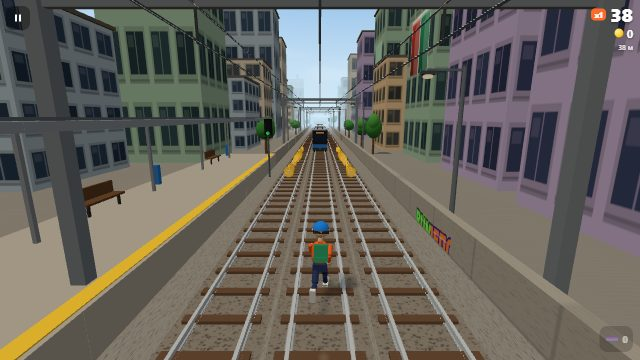
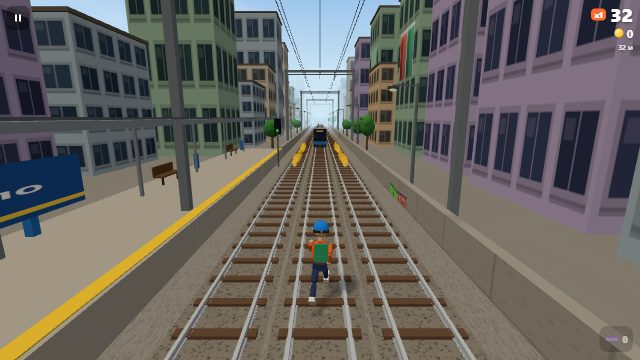
Хаб 1.1.2: «Бег по рельсам» 2.0.1 (RailRunner 9ea7a53, тег v2.0.1: пандусы видны, провода и свод туннеля выше бегуна и камеры, найденный ключ сразу в запасе, «Турист») - node tools/sync-railrunner.js, картинка карточки заново; версия 1.1.2 (package.json, README), журнал 1.1.2 - 2026-10-17 (Drift 1.2

diff --git a/web/rail-runner/js/scenery.js b/web/rail-runner/js/scenery.js
@@ -11,6 +11,16 @@
   const K = R.C;
   const SEG = 12;
   const WALL_X = K.LANE_W * 1.5 + 1.15;
+  // The contact wire hangs higher than anything the player reaches: a super jump from a train
+  // roof (feet at 6.6 m, head at 8.3 m), the jetpack (feet at 7.2 m, head at 8.9 m) and the
+  // camera that follows them (up to 9.5 m). In 2.0.0 the wire hung at 5.85 m: on a roof the
+  // camera sat 0.15 m above it and the black wire covered the runner, a jump went through it.
+  const CATENARY_WIRE_Y = 10.2;
+  const CATENARY_LOW = CATENARY_WIRE_Y - 0.05;   // the lowest part over the tracks (droppers)
+  // The tunnel vault (its ribs) is higher still: the wires run under it. In 2.0.0 the ribs were
+  // at 7.3 m - a super jump from a roof put the camera inside a rib (the screen went brown) and
+  // on a jetpack the camera flew above the tunnel roof, the runner was not seen at all.
+  const TUNNEL_LOW = CATENARY_WIRE_Y + 0.7;
 
   // ---------- looks: light and colours of every district (and the second lap's morning) ----------
   const LOOKS = {
@@ -251,14 +261,16 @@
       G.box(0.5, 0.12, 0.26, 0x4a5056, [-1.25, 6.0, 0]),
     ]);
     Gm.glow = new THREE.SphereGeometry(0.16, 8, 6);
-    // a catenary gantry across the three tracks
+    // a catenary gantry across the three tracks: everything over the tracks is higher than
+    // CATENARY_LOW (see there)
+    const C0 = CATENARY_WIRE_Y;
     const gant = [
-      G.box(0.32, 7.2, 0.32, 0x7d858d, [-5.0, 3.6, 0]), G.box(0.32, 7.2, 0.32, 0x7d858d, [5.0, 3.6, 0]),
-      G.box(10.6, 0.3, 0.3, 0x7d858d, [0, 6.9, 0]), G.box(10.6, 0.12, 0.12, 0x7d858d, [0, 6.45, 0]),
+      G.box(0.32, C0 + 1.35, 0.32, 0x7d858d, [-5.0, (C0 + 1.35) / 2, 0]), G.box(0.32, C0 + 1.35, 0.32, 0x7d858d, [5.0, (C0 + 1.35) / 2, 0]),
+      G.box(10.6, 0.3, 0.3, 0x7d858d, [0, C0 + 1.05, 0]), G.box(10.6, 0.12, 0.12, 0x7d858d, [0, C0 + 0.6, 0]),
     ];
     for (const lx of [-K.LANE_W, 0, K.LANE_W]) {
-      gant.push(G.box(0.04, 0.8, 0.04, 0x444444, [lx, 6.2, 0]));
-      gant.push(G.cyl(0.07, 0.07, 0.25, 6, 0x9b5a3a, [lx, 6.6, 0]));
+      gant.push(G.box(0.04, 0.8, 0.04, 0x444444, [lx, C0 + 0.35, 0]));
+      gant.push(G.cyl(0.07, 0.07, 0.25, 6, 0x9b5a3a, [lx, C0 + 0.75, 0]));
     }
     Gm.gantry = G.merge(gant);
     // a signal: pole, head with three lights facing the player (lights separate)
@@ -281,18 +293,19 @@
     ];
     Gm.platform = G.merge(plat);
     // tunnel: walls, ceiling and a rib, one segment
+    const TV = TUNNEL_LOW;          // the ribs' bottom; the ceiling 0.5 m above it
     Gm.tunnel = G.merge([
-      G.box(1.2, 8, SEG, 0x8a8478, [-6.0, 4, 0]), G.box(1.2, 8, SEG, 0x8a8478, [6.0, 4, 0]),
-      G.box(13.2, 1.2, SEG, 0x7a746a, [0, 8.4, 0]),
-      G.box(0.6, 7.6, 0.8, 0x6a645a, [-5.3, 3.8, 0]), G.box(0.6, 7.6, 0.8, 0x6a645a, [5.3, 3.8, 0]), G.box(11.2, 0.6, 0.8, 0x6a645a, [0, 7.6, 0]),
+      G.box(1.2, TV + 1.7, SEG, 0x8a8478, [-6.0, (TV + 1.7) / 2, 0]), G.box(1.2, TV + 1.7, SEG, 0x8a8478, [6.0, (TV + 1.7) / 2, 0]),
+      G.box(13.2, 1.2, SEG, 0x7a746a, [0, TV + 1.1, 0]),
+      G.box(0.6, TV + 0.6, 0.8, 0x6a645a, [-5.3, (TV + 0.6) / 2, 0]), G.box(0.6, TV + 0.6, 0.8, 0x6a645a, [5.3, (TV + 0.6) / 2, 0]), G.box(11.2, 0.6, 0.8, 0x6a645a, [0, TV + 0.3, 0]),
       G.box(0.15, 0.25, SEG, 0x3a3a3a, [-5.25, 2.2, 0]), G.box(0.15, 0.25, SEG, 0x3a3a3a, [5.25, 2.2, 0]),
       G.box(0.1, 0.12, SEG, 0x2a2a2a, [-5.25, 2.6, 0]), G.box(0.1, 0.12, SEG, 0x2a2a2a, [5.25, 2.6, 0]),
     ]);
     // a portal: the hill face with an opening for the tracks
     Gm.portal = G.merge([
       G.box(40, 30, 6, 0x6f6a5f, [-25.6, 15, 3]), G.box(40, 30, 6, 0x6f6a5f, [25.6, 15, 3]),
-      G.box(11.2, 21, 6, 0x6f6a5f, [0, 19.5, 3]),
-      G.box(12.4, 1.2, 0.8, 0x9a948a, [0, 9.0, -0.2]), G.box(1.2, 9.6, 0.8, 0x9a948a, [-6.2, 4.8, -0.2]), G.box(1.2, 9.6, 0.8, 0x9a948a, [6.2, 4.8, -0.2]),
+      G.box(11.2, 30 - (TV + 0.6), 6, 0x6f6a5f, [0, (30 + TV + 0.6) / 2, 3]),
+      G.box(12.4, 1.2, 0.8, 0x9a948a, [0, TV + 0.6, -0.2]), G.box(1.2, TV + 1.2, 0.8, 0x9a948a, [-6.2, (TV + 1.2) / 2, -0.2]), G.box(1.2, TV + 1.2, 0.8, 0x9a948a, [6.2, (TV + 1.2) / 2, -0.2]),
       G.box(90, 12, 30, 0x4f6b3a, [0, 32, 18], null, {}), G.box(70, 10, 30, 0x5a7a40, [0, 40, 30]),
     ]);
     // bridge: truss on one side of a segment and the deck
@@ -399,10 +412,14 @@
     mats.rail = railMesh.material;
     const wires = [];
     for (const lx of [-K.LANE_W, 0, K.LANE_W]) {
-      wires.push(G.box(0.03, 0.03, LEN, 0x222222, [lx, 5.85, 0]));
-      wires.push(G.box(0.025, 0.025, LEN, 0x222222, [lx, 6.45, 0]));
+      wires.push(G.box(0.03, 0.03, LEN, 0x222222, [lx, CATENARY_WIRE_Y, 0]));
+      wires.push(G.box(0.025, 0.025, LEN, 0x222222, [lx, CATENARY_WIRE_Y + 0.6, 0]));
     }
     const wireMesh = new THREE.Mesh(G.merge(wires), new THREE.MeshBasicMaterial({ vertexColors: true }));
+    wireMesh.name = 'catenary-wires';
+    P.gantry.mesh.name = 'catenary-gantry';
+    P.tunnel.mesh.name = 'tunnel-vault';
+    P.portal.mesh.name = 'tunnel-portal';
     track.add(wireMesh);
     const SLEEPER_STEP = 1.1, SLEEPERS = Math.ceil((opts.ahead + opts.behind + 10) / SLEEPER_STEP);
     const sleepers = new THREE.InstancedMesh(new THREE.BoxGeometry(1.75, 0.08, 0.24), mats.sleeper, SLEEPERS * 3);
@@ -607,5 +624,5 @@
     return { update, follow, setLook, setDetail, setLang, setShowcase, smoke, pools: P, mats, track, water, skyline };
   }
 
-  root.RRScenery = { create, lookAt, LOOKS, SEG };
+  root.RRScenery = { create, lookAt, LOOKS, SEG, CATENARY_LOW };
 })(typeof self !== 'undefined' ? self : this);

diff --git a/web/rail-runner/js/app.js b/web/rail-runner/js/app.js
@@ -8,7 +8,7 @@
 // ?preserve=1 - keep the picture for screenshots.
 (function () {
   'use strict';
-  const VERSION = '2.0.0';
+  const VERSION = '2.0.1';
   const R = window.RRCore, M = window.RRMeta, I = window.RRI18n, A = window.RRAudio;
   const DT = R.C.DT;
   const STORE = 'railrunner:save';
@@ -228,7 +228,7 @@
   function renderOverNews() {
     if (!lastOver) return;
     const { rec, mis, daily, ach } = lastOver;
-    $('o-best').textContent = I.t('record', { n: save.best }) + (rec.rank ? ' · ' + I.t('rankText', { n: rec.rank }) : '');
+    $('o-best').textContent = I.t('record', { n: fmt(save.best) }) + (rec.rank ? ' · ' + I.t('rankText', { n: rec.rank }) : '');
     const news = [];
     for (const id of mis.completed) news.push('✓ ' + missionText(id, save.missions.level - (mis.levelUp ? 1 : 0)) + ' · ' + I.t('missionReward', { n: M.missionReward(save.missions.level - (mis.levelUp ? 1 : 0)) }));
     if (mis.levelUp) news.push('★ ' + I.t('levelUp', { n: save.missions.level }));
@@ -333,7 +333,14 @@
       if (e === 'bump') toast(I.t('bump'));
       else if (e === 'board-break') { toast(I.t('boardBroke')); flash(); }
       else if (e === 'board-on') toast(I.t('boardOn'));
-      else if (e === 'key') toast(I.t('keyFound'));
+      else if (e === 'key') {
+        // a found key goes into the stock at once: it can pay for a continue in this very run
+        // (run.keys - found and not yet put away, applyResult adds only those)
+        save.keys = Math.min(99999, save.keys + 1);
+        run.keys--;
+        persist();
+        toast(I.t('keyFound'));
+      }
       else if (e === 'crash') { state = 'dying'; deadT = 0; A.music(false); A.jet(false); flash(true); }
       else if (e.startsWith('power:')) { toast(I.t('p_' + e.slice(6))); flash(); if (e === 'power:jetpack') A.jet(true); }
       else if (e === 'power-end:jetpack') A.jet(false);
@@ -992,7 +999,7 @@
     get manual() { return MANUAL; },
     get tutorial() { return tut; },
     get lastOver() { return lastOver; },
-    view: { info: () => view.info(), get theme() { return view.theme; }, get quality() { return view.quality; }, get look() { return view.look; }, get scene() { return view.scene; } },
+    view: { info: () => view.info(), get theme() { return view.theme; }, get quality() { return view.quality; }, get look() { return view.look; }, get scene() { return view.scene; }, get camera() { return view.camera; } },
     // move the simulation by whole steps (works in ?manual=1 and normally);
     // { auto: true } - the autopilot plays the run (tests and README frames)
     advance(seconds, opts = {}) {

diff --git a/web/rail-runner/js/i18n.js b/web/rail-runner/js/i18n.js
@@ -142,7 +142,7 @@
       qHigh: 'Высокое',
       qMedium: 'Среднее',
       qLow: 'Низкое',
-      qualityHelp: '«Авто» само снижает качество, если кадры идут медленнее 60 в секунду.',
+      qualityHelp: '«Авто» само снижает качество, если игра идёт медленнее 45 кадров в секунду.',
       shadows: 'Тени',
       particles: 'Частицы',
       pHigh: 'Много',
@@ -202,7 +202,7 @@
       a_hops10: 'Акробат', a_hops10_d: 'Перескочить с крыши на крышу 10 раз',
       a_near25: 'На волосок', a_near25_d: 'Уйти от поезда в последний миг 25 раз',
       a_jets10: 'Пилот', a_jets10_d: 'Полетать на ранце 10 раз',
-      a_tour: 'Путешественник', a_tour_d: 'Пробежать все пять районов за забег',
+      a_tour: 'Турист', a_tour_d: 'Пробежать все пять районов за забег',
       a_mult5: 'Множитель x5', a_mult5_d: 'Довести множитель до x5',
       a_mult10: 'Множитель x10', a_mult10_d: 'Довести множитель до x10',
       a_crew3: 'Команда', a_crew3_d: 'Открыть трёх персонажей',
@@ -356,7 +356,7 @@
       qHigh: 'High',
       qMedium: 'Medium',
       qLow: 'Low',
-      qualityHelp: '"Auto" lowers the quality by itself when the game runs slower than 60 frames a second.',
+      qualityHelp: '"Auto" lowers the quality by itself when the game runs slower than 45 frames a second.',
       shadows: 'Shadows',
       particles: 'Particles',
       pHigh: 'Many',
@@ -414,7 +414,7 @@
       a_hops10: 'Acrobat', a_hops10_d: 'Hop from roof to roof 10 times',
       a_near25: 'Close calls', a_near25_d: 'Dodge a train at the last moment 25 times',
       a_jets10: 'Pilot', a_jets10_d: 'Fly the jetpack 10 times',
-      a_tour: 'Traveller', a_tour_d: 'Run through all five districts in a run',
+      a_tour: 'Tourist', a_tour_d: 'Run through all five districts in a run',
       a_mult5: 'Multiplier x5', a_mult5_d: 'Raise the multiplier to x5',
       a_mult10: 'Multiplier x10', a_mult10_d: 'Raise the multiplier to x10',
       a_crew3: 'Crew', a_crew3_d: 'Unlock three characters',

diff --git a/web/rail-runner/js/gfx.js b/web/rail-runner/js/gfx.js
@@ -72,16 +72,19 @@
     return part(new THREE.CylinderGeometry(rt, rb, h, seg), color, Object.assign({ p, r }, extra));
   }
   const sphere = (rad, color, p, s, ws = 10, hs = 8) => part(new THREE.SphereGeometry(rad, ws, hs), color, { p, s });
-  // a wedge from height 0 at z=0 to height H at z=L, width W (centred on x)
+  // a wedge from height 0 at z=0 to height H at z=L, width W (centred on x).
+  // Every triangle is wound counter-clockwise seen from outside: three.js draws only the front
+  // side, and in 2.0.0 the faces were wound inside out - the slope was invisible from above
+  // and the ramp looked transparent (only its yellow edges showed).
   function wedge(W, H, L, color) {
     const hw = W / 2;
     const v = [
-      -hw, 0, 0, hw, 0, 0, hw, H, L, -hw, 0, 0, hw, H, L, -hw, H, L,
-      -hw, 0, 0, -hw, H, L, -hw, 0, L,
-      hw, 0, 0, hw, 0, L, hw, H, L,
-      -hw, 0, L, -hw, H, L, hw, H, L, -hw, 0, L, hw, H, L, hw, 0, L,
+      -hw, 0, 0, hw, H, L, hw, 0, 0, -hw, 0, 0, -hw, H, L, hw, H, L,
+      -hw, 0, 0, -hw, 0, L, -hw, H, L,
+      hw, 0, 0, hw, H, L, hw, 0, L,
+      -hw, 0, L, hw, H, L, -hw, H, L, -hw, 0, L, hw, 0, L, hw, H, L,
     ];
-    const uv = [0, 0, 1, 0, 1, 1, 0, 0, 1, 1, 0, 1, 0, 0, 1, 1, 1, 0, 0, 0, 1, 0, 1, 1, 0, 0, 0, 1, 1, 1, 0, 0, 1, 1, 1, 0];
+    const uv = [0, 0, 1, 1, 1, 0, 0, 0, 0, 1, 1, 1, 0, 0, 1, 0, 1, 1, 0, 0, 1, 1, 1, 0, 0, 0, 1, 1, 0, 1, 0, 0, 1, 0, 1, 1];
     const g = new THREE.BufferGeometry();
     g.setAttribute('position', new THREE.Float32BufferAttribute(v, 3));
     g.setAttribute('uv', new THREE.Float32BufferAttribute(uv, 2));

diff --git a/web/rail-runner/css/style.css b/web/rail-runner/css/style.css
@@ -202,8 +202,9 @@ h3 { margin: 8px 0 0; font-size: 17px; }
 .ach { background: var(--card); border-radius: 12px; padding: 8px; display: grid; grid-template-columns: 48px 1fr; gap: 8px; align-items: center; }
 .ach svg { width: 48px; height: 48px; }
 .ach.locked svg { filter: grayscale(1); opacity: 0.35; }
-.ach .name { font-weight: 700; font-size: 14px; }
-.ach .desc { font-size: 12px; color: var(--muted); line-height: 1.3; }
+.ach > div { min-width: 0; }
+.ach .name { font-weight: 700; font-size: 14px; overflow-wrap: break-word; }
+.ach .desc { font-size: 12px; color: var(--muted); line-height: 1.3; overflow-wrap: break-word; }
 
 /* records */
 .runs { display: flex; flex-direction: column; gap: 4px; font-variant-numeric: tabular-nums; }

diff --git a/README.ru.md b/README.ru.md
@@ -113,13 +113,13 @@ npm start                 # запустить приложение
 npm run dist              # собрать установщик и portable в dist/
 ```
 
-Сборка для Windows x64: `dist/Hub-1.1.1-Setup.exe` (NSIS, для одного
-пользователя, без прав администратора, на русском) и `dist/Hub-1.1.1-Portable.exe`,
+Сборка для Windows x64: `dist/Hub-1.1.2-Setup.exe` (NSIS, для одного
+пользователя, без прав администратора, на русском) и `dist/Hub-1.1.2-Portable.exe`,
 около 160 МБ. В сборку попадают только `app/` и папки игр, программ и демо.
 
 ```
-npm test                  # страницы web/ в Chromium (1185 проверок)
-npm run test:unit         # законы модулей приложения и значка (51)
+npm test                  # страницы web/ в Chromium (1193 проверки)
+npm run test:unit         # законы модулей приложения и значка (63)
 npm run test:app          # настоящее приложение через Playwright (91, окна за экраном)
 pip install -r requirements-py.txt
 python -m pytest tests/py # программы py/ (183)
@@ -180,13 +180,13 @@ python -m pytest tests/py # программы py/ (183)
 |---|---|---|---|
 | `tetris` | «Блоки»: падающие фигуры по правилам серии, с запасом и T-вращениями | 12 | 9 / 9 / 4 |
 | `sudoku` | Судоку с решателем, подсказками, паузой и рекордами по уровням | 11 | 8 / 9 / 5 |
-| `horizon_drift_offline` | Horizon Drift: 3D-гонки и дрифт, карьера, 8 машин и 8 трасс, свободная езда по 4 картам, повреждения; соперников ведёт нейросеть AiRacer (видит только то, что водитель), «Новая трасса» по коду - генератор с проверкой ботом и нейросетью | 117 + 9 в node | 8 / 7 / 7 |
+| `horizon_drift_offline` | Horizon Drift: 3D-гонки и дрифт, карьера, 8 машин и 8 трасс, свободная езда по 4 картам, повреждения; соперников ведёт нейросеть AiRacer (видит только то, что водитель), «Новая трасса» по коду - генератор с проверкой ботом и нейросетью | 118 + 11 в node | 8 / 7 / 7 |
 | `space_shooter` | Космический стрелок: волны врагов и астероидов, бонусы, рекорд | 12 | 8 / 7 / 5 |
 | `mario` | «Прыг-скок»: платформер на два уровня со своим героем | 13 | 7 / 8 / 5 |
 | `jungle-strike` | «Огненные джунгли»: аркада-стрелялка с боссом | 11 | 7 / 7 / 6 |
 | `minecraft_clone_3d_1` | «Кубический мир»: песочница из кубов, постройки сохраняются | 11 | 7 / 7 / 6 |
 | `dino` | «Дино-бег»: бег с прыжками через кактусы и птиц | 11 | 6 / 8 / 3 |
-| `rail-runner` | «Бег по рельсам»: бег по трём путям в 3D от поездов через пять районов - 6 персонажей, магазин, задания, реактивный ранец и обучение. Свой репозиторий [RailRunner](https://github.com/ALEXalesha/RailRunner), здесь копия его `web/`, версия <!--rail-ver-->2.0.0<!--/rail-ver-->, обновляется `node tools/sync-railrunner.js [папка]` (или `RAILRUNNER_DIR`) | в RailRunner | пока без разбора |
+| `rail-runner` | «Бег по рельсам»: бег по трём путям в 3D от поездов через пять районов - 6 персонажей, магазин, задания, реактивный ранец и обучение. Свой репозиторий [RailRunner](https://github.com/ALEXalesha/RailRunner), здесь копия его `web/`, версия <!--rail-ver-->2.0.1<!--/rail-ver-->, обновляется `node tools/sync-railrunner.js [папка]` (или `RAILRUNNER_DIR`) | в RailRunner | пока без разбора |
 | `flappy-wings` | «Летучая птичка»: пролети между колоннами, один файл; фан-игра, не связана с правообладателями известных игр жанра | 25 | пока без разбора |
 | `fps_1` | «Операция: Периметр»: тактический шутер от первого лица, раунды против ботов | 10 | 6 / 7 / 4 |
 | `roblox-mini` | «Блоксити»: город площадок - выбирай место и наряжай своего героя | 10 | 5 / 7 / 4 |

diff --git a/README.md b/README.md
@@ -114,13 +114,13 @@ npm start                 # run the app
 npm run dist              # build the installer and the portable exe into dist/
 ```
 
-The Windows x64 build gives `dist/Hub-1.1.1-Setup.exe` (NSIS, per-user, no admin
-rights, Russian) and `dist/Hub-1.1.1-Portable.exe`. Only `app/` and the
+The Windows x64 build gives `dist/Hub-1.1.2-Setup.exe` (NSIS, per-user, no admin
+rights, Russian) and `dist/Hub-1.1.2-Portable.exe`. Only `app/` and the
 folders of the games, programs and demos go into the build (about 160 MB each).
 
 ```
-npm test                  # web/ pages in Chromium (1185 checks)
-npm run test:unit         # laws of the app modules and the icon (51)
+npm test                  # web/ pages in Chromium (1193 checks)
+npm run test:unit         # laws of the app modules and the icon (63)
 npm run test:app          # the real app through Playwright (91, windows off-screen)
 pip install -r requirements-py.txt
 python -m pytest tests/py # py/ programs (183)
@@ -180,13 +180,13 @@ and [docs/audit/apps.md](docs/audit/apps.md). Scores are after the fixes.
 |---|---|---|---|
 | `tetris` | Blocks: falling pieces by the classic rules, with hold and T-spins | 12 | 9 / 9 / 4 |
 | `sudoku` | Sudoku with a solver, hints, pause and records per level | 11 | 8 / 9 / 5 |
-| `horizon_drift_offline` | Horizon Drift: 3D racing and drifting, career, 8 cars and 8 tracks, free roam on 4 maps, car damage; rivals are driven by the AiRacer neural network (it sees only what a driver sees), "New track" from a code - a generator checked by the bot and the network | 117 + 9 in node | 8 / 7 / 7 |
+| `horizon_drift_offline` | Horizon Drift: 3D racing and drifting, career, 8 cars and 8 tracks, free roam on 4 maps, car damage; rivals are driven by the AiRacer neural network (it sees only what a driver sees), "New track" from a code - a generator checked by the bot and the network | 118 + 11 in node | 8 / 7 / 7 |
 | `space_shooter` | Space Shooter: waves of enemies and asteroids, power-ups, record | 12 | 8 / 7 / 5 |
 | `mario` | Hop-Skip: a two-level platformer with its own hero | 13 | 7 / 8 / 5 |
 | `jungle-strike` | Fire Jungle: a run-and-gun arcade with a boss | 11 | 7 / 7 / 6 |
 | `minecraft_clone_3d_1` | Cube World: a voxel sandbox, builds are saved | 11 | 7 / 7 / 6 |
 | `dino` | Dino Run: jump over cacti and duck under birds | 11 | 6 / 8 / 3 |
-| `rail-runner` | RailRunner («Бег по рельсам»): run along three tracks in 3D away from trains through five districts - 6 characters, a shop, missions, a jetpack and a tutorial. Its own repository [RailRunner](https://github.com/ALEXalesha/RailRunner); this is a copy of its `web/`, version <!--rail-ver-->2.0.0<!--/rail-ver-->, refreshed with `node tools/sync-railrunner.js [folder]` (or `RAILRUNNER_DIR`) | in RailRunner | not reviewed yet |
+| `rail-runner` | RailRunner («Бег по рельсам»): run along three tracks in 3D away from trains through five districts - 6 characters, a shop, missions, a jetpack and a tutorial. Its own repository [RailRunner](https://github.com/ALEXalesha/RailRunner); this is a copy of its `web/`, version <!--rail-ver-->2.0.1<!--/rail-ver-->, refreshed with `node tools/sync-railrunner.js [folder]` (or `RAILRUNNER_DIR`) | in RailRunner | not reviewed yet |
 | `flappy-wings` | Flappy Wings: fly between columns, one file, a fan game not affiliated with the rights holders of the genre's known games | 25 | not reviewed yet |
 | `fps_1` | Operation: Perimeter: a first-person tactical shooter, rounds against bots | 10 | 6 / 7 / 4 |
 | `roblox-mini` | Blockcity: a city of places - pick one and dress up your hero | 10 | 5 / 7 / 4 |

diff --git a/docs/release-notes/v1.1.2.md b/docs/release-notes/v1.1.2.md
@@ -1,0 +1,19 @@
+Hub 1.1.2 - Horizon Drift 1.2.0 with neural rivals and new tracks from a code, RailRunner 2.0.1.
+
+- Horizon Drift 1.2.0: rivals are driven by the AiRacer neural network - it sees only what a driver sees and presses the same pedals and wheel as the player; damage and nitro work for it by the player's rules. "Settings → Game → Rival AI" brings the old bot back. Drift races can have up to 3 rivals.
+- Horizon Drift: "New track" in the menu builds a closed track from a code like R2M-3F9K1Z; the same code always gives the same track, so it can be shared. Tracks can be saved, records are kept per code.
+- Horizon Drift: the festival, events and duels in free roam are on T (gamepad B), E is only "gear up". If T was already given to another action, the festival takes a free key.
+- Horizon Drift, fixes after the review: the rival level matches the game's bot of the same difficulty (on "Easy" the network was a little faster than it should be); a track that is still being built stops when a race starts.
+- RailRunner 2.0.1: five districts with time of day and weather, six characters and boards, a shop, missions, a daily challenge, a jetpack, tricks and a tutorial.
+- The Horizon Drift card describes the game as it is now.
+
+---
+
+«Хаб» 1.1.2 - Horizon Drift 1.2.0 с соперниками-нейросетью и новыми трассами по коду, «Бег по рельсам» 2.0.1.
+
+- Horizon Drift 1.2.0: соперников ведёт нейросеть AiRacer - она видит только то, что видел бы водитель, и жмёт те же педали и руль, что игрок; повреждения и нитро у неё по правилам игрока. «Настройки» → «Игра» → «ИИ соперников» возвращает прежнего бота. В дрифте теперь до 3 соперников.
+- Horizon Drift: «Новая трасса» в меню строит замкнутую трассу по коду вида R2M-3F9K1Z; тот же код всегда даёт ту же трассу - им можно поделиться. Трассы сохраняются, рекорды - по коду.
+- Horizon Drift: фестиваль, события и дуэли в свободной езде - на T (на геймпаде B), E - только «передача вверх». Если T уже отдана другому действию, фестиваль берёт свободную клавишу.
+- Horizon Drift, исправления после проверки: уровень соперников совпадает с ботом игры той же сложности (на «Легко» нейросеть была чуть быстрее, чем нужно); трасса, которая ещё строится, останавливается, когда начинается заезд.
+- «Бег по рельсам» 2.0.1: пять районов со сменой времени суток и погодой, шесть персонажей и доски, магазин, задания, испытание дня, реактивный ранец, трюки и обучение.
+- Карточка Horizon Drift описывает игру такой, какая она сейчас.

diff --git a/CHANGELOG.md b/CHANGELOG.md
@@ -1,13 +1,16 @@
 # Changelog / Журнал изменений
 
-## Unreleased
+## 1.1.2 - 2026-10-17
 
 **EN**
 
-- RailRunner 2.0.0 in the Hub (`web/rail-runner`, commit a37481f, `node tools/sync-railrunner.js`):
+- RailRunner 2.0.1 in the Hub (`web/rail-runner`, commit 9ea7a53, `node tools/sync-railrunner.js`):
   five districts with time of day and weather, 6 characters and boards, a shop, missions with a
   multiplier, a daily challenge, a jetpack, tricks and combos, a tutorial; new files `meta.js`,
   `gfx.js`, `scenery.js`, `actors.js`. New card picture and description.
+- RailRunner 2.0.1 fixes after its review: ramps to the trains are drawn (they were see-through), the
+  overhead wires and the tunnel vault are above the runner and the camera, a key found in a run can pay
+  for a continue at once, achievement names fit their cards.
 - Horizon Drift 1.2.0: rivals are driven by the AiRacer neural network (the AiRacer project: a
   small 35-20-14-4 network trained on the game's own physics). It sees only what a driver would
   see - rays to the walls and to the cars nearby, its own speed and slide, the road 10-90 m ahead -
@@ -57,10 +60,13 @@
 
 **RU**
 
-- «Бег по рельсам» 2.0.0 в Хабе (`web/rail-runner`, коммит a37481f, `node tools/sync-railrunner.js`):
+- «Бег по рельсам» 2.0.1 в Хабе (`web/rail-runner`, коммит 9ea7a53, `node tools/sync-railrunner.js`):
   пять районов со сменой времени суток и погодой, 6 персонажей и доски, магазин, задания с
   множителем, испытание дня, реактивный ранец, трюки и комбо, обучение; новые файлы `meta.js`,
   `gfx.js`, `scenery.js`, `actors.js`. Новая картинка карточки и описание.
+- «Бег по рельсам» 2.0.1 - исправления после его проверки: пандусы к поездам видны (были прозрачными),
+  провода и свод туннеля выше бегуна и камеры, найденным в забеге ключом можно сразу продолжить,
+  названия достижений влезают в карточки.
 - Horizon Drift 1.2.0: соперников ведёт нейросеть AiRacer (проект AiRacer: маленькая сеть
   35-20-14-4, обученная на физике самой игры). Она видит только то, что видел бы водитель, - лучи
   до стен и машин рядом, свою скорость и занос, дорогу на 10-90 м вперёд - и жмёт те же газ,
@@ -107,7 +113,6 @@
   клавиатуры и мышью, во всех режимах, темы (у каждого своя, тема Хаба не меняется, после
   переоткрытия остаётся), размеры окна от 320x568 до 1920x1080 (посередине, ни одна кнопка не
   обрезана и не закрыта), ошибок в консоли нет. Исправлять нечего.
-
 
 ## 1.1.1 - 2026-10-17
 
